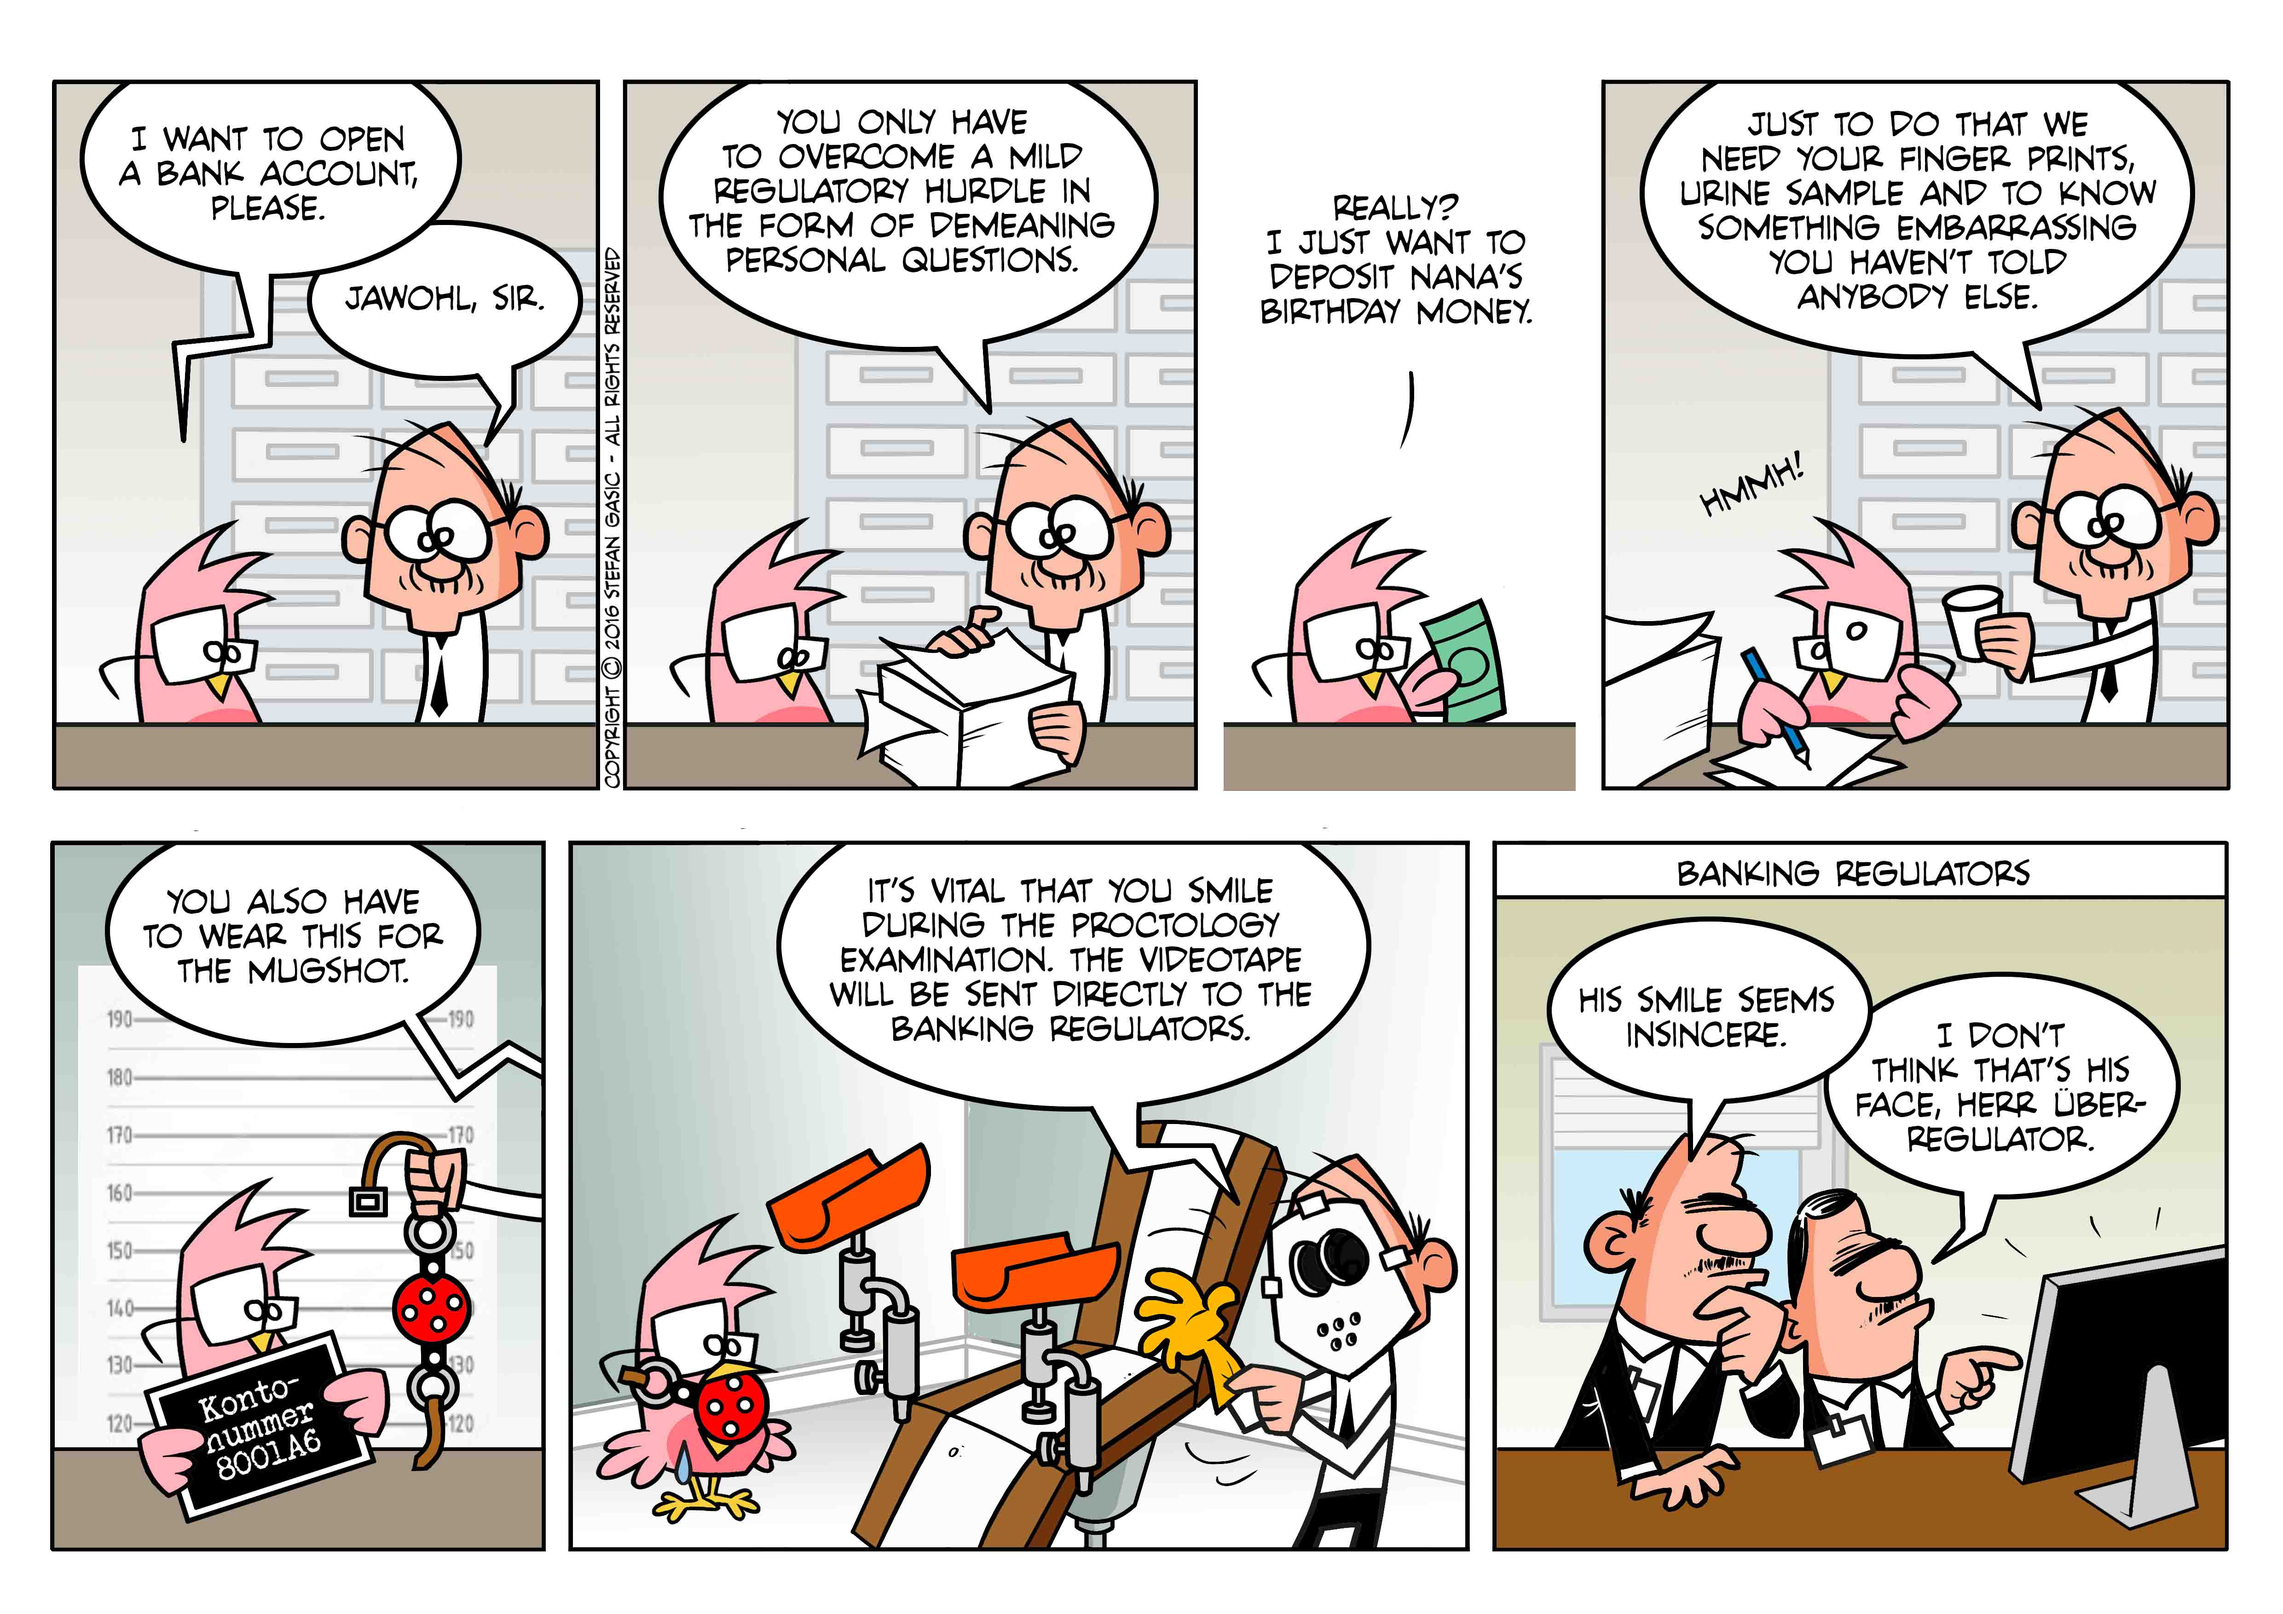
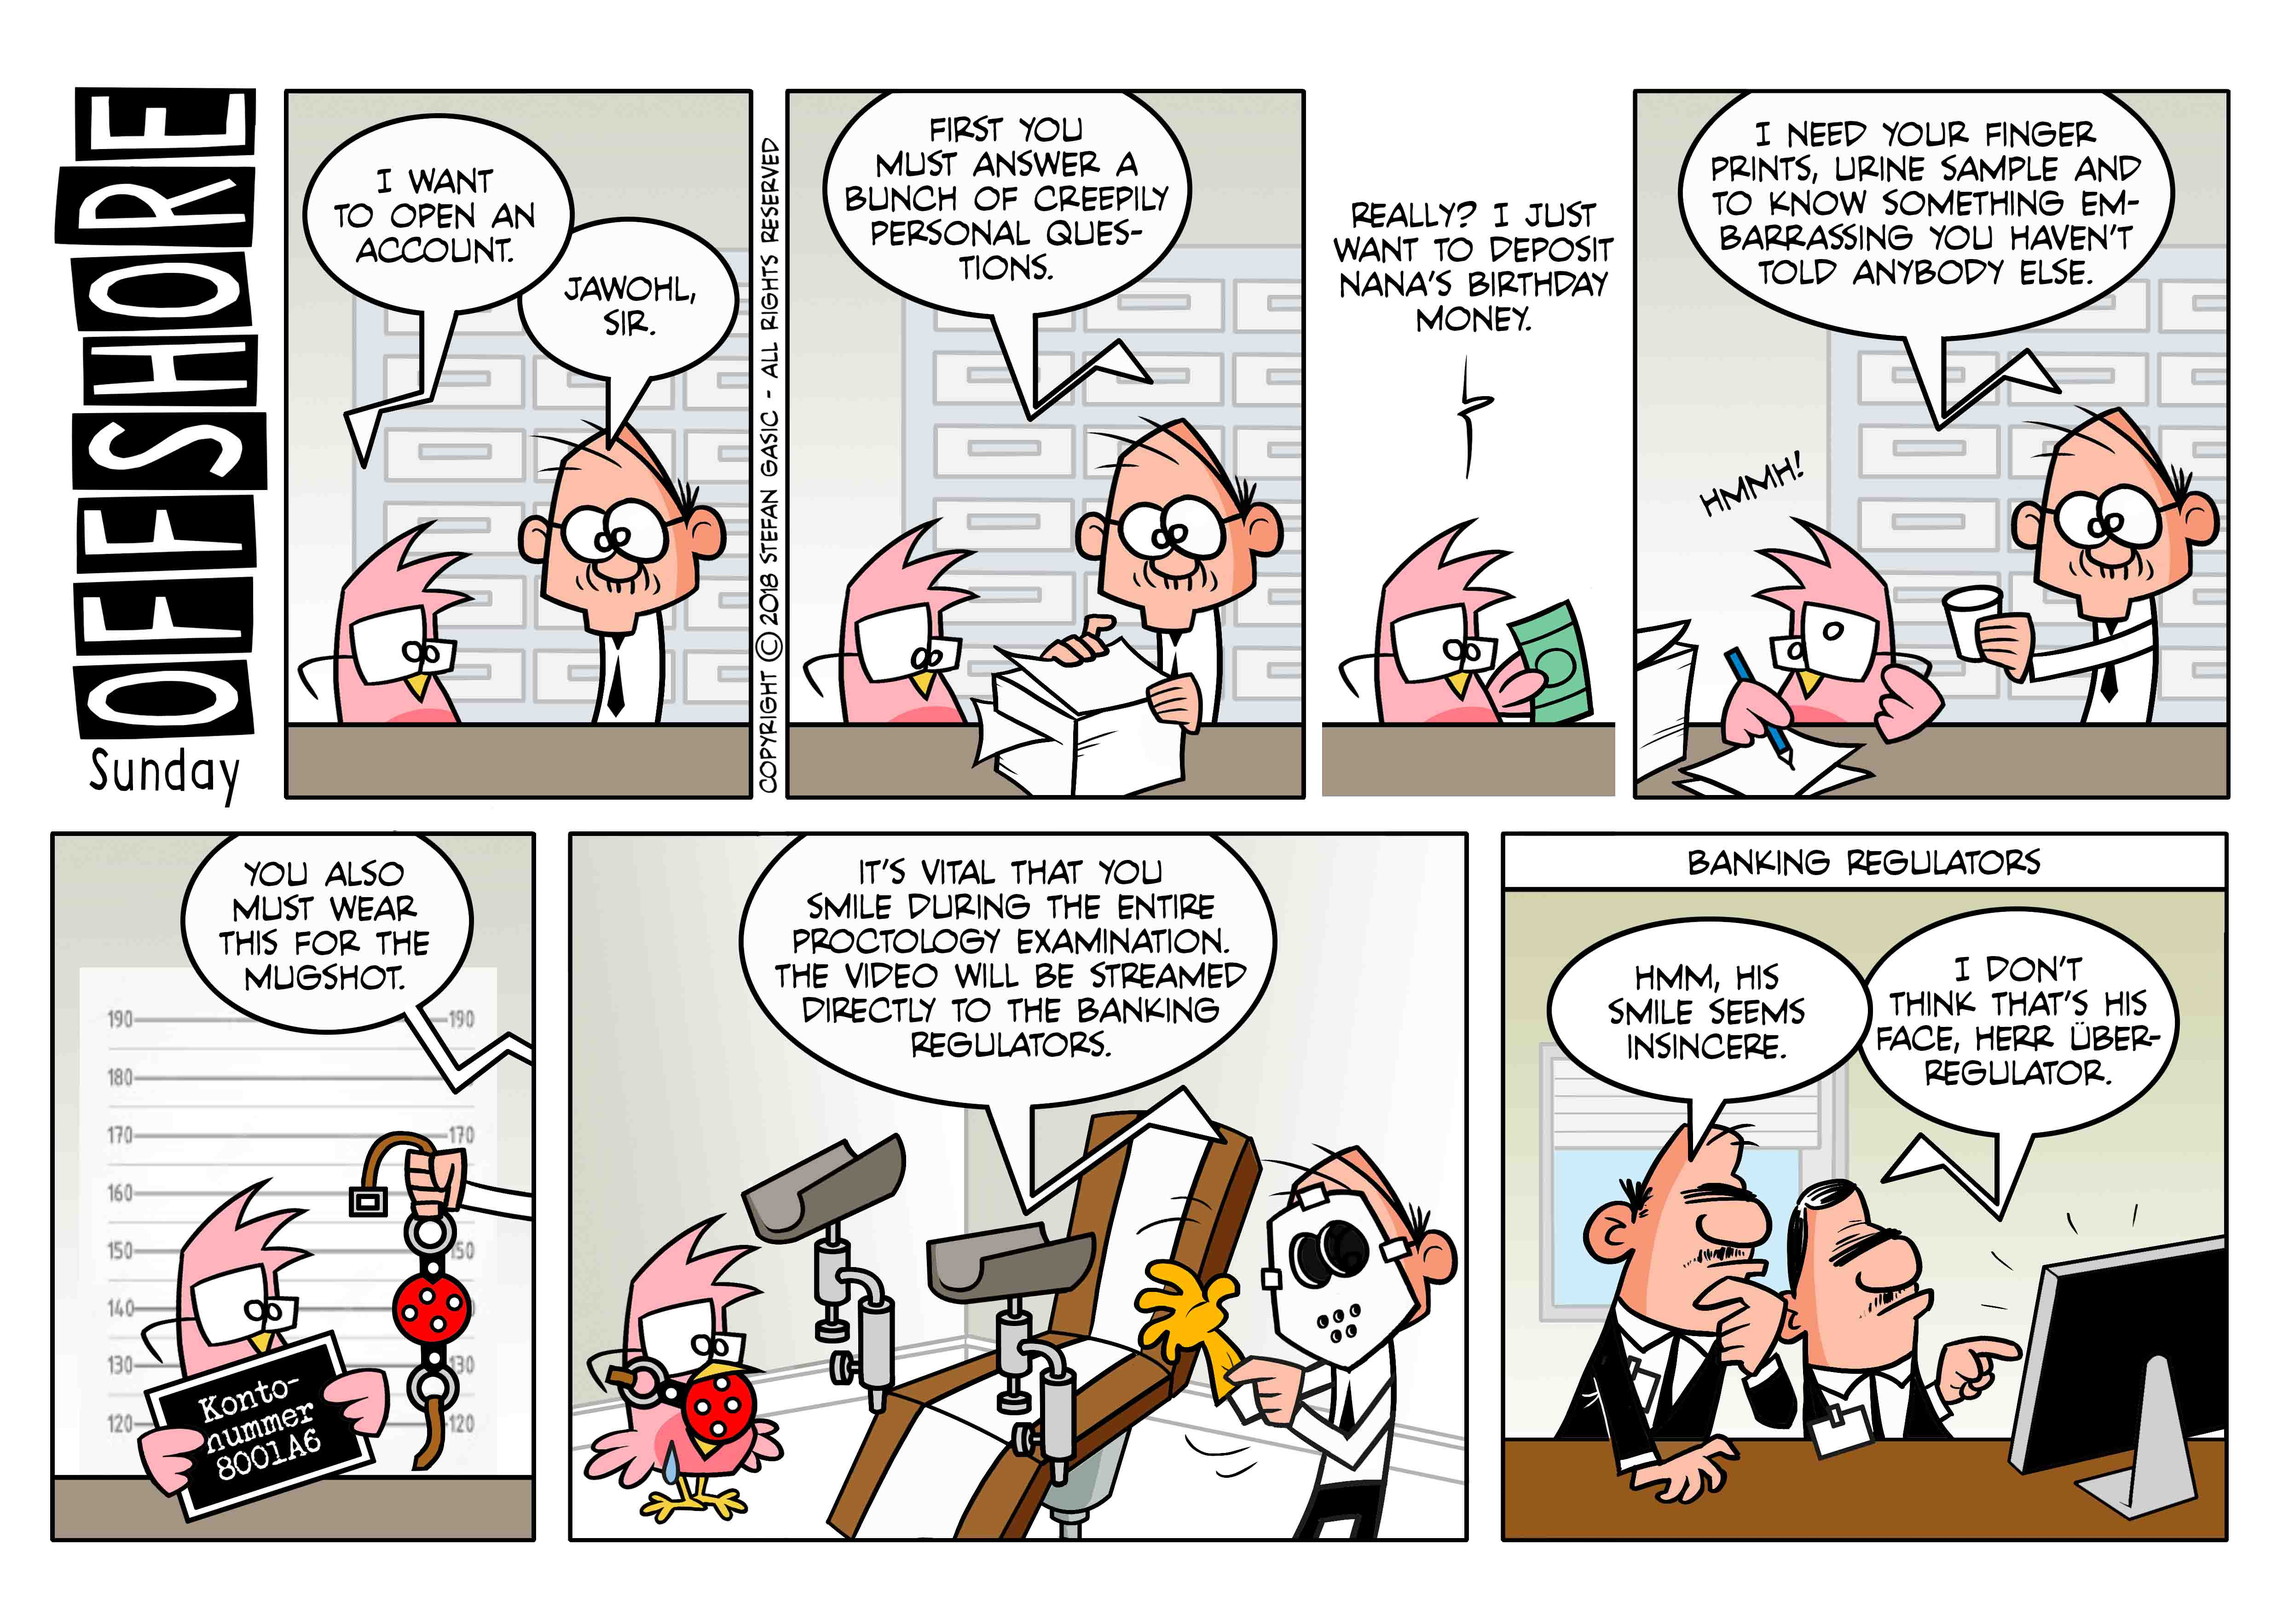
Added a new strip and updated the html & js codes accordingly.

diff --git a/myscripts.js b/myscripts.js
@@ -1,4 +1,4 @@
-var Strips = ["images/S261.jpg","images/S260.jpg","images/S259.jpg","images/S258.jpg","images/S257.jpg","images/S256.jpg","images/S255.jpg","images/S254.jpg","images/S253.jpg","images/S252.jpg","images/S251.jpg","images/S250.jpg","images/S249.jpg","images/S248.jpg","images/S247.jpg","images/S246.jpg","images/S245.jpg","images/S244.jpg","images/S243.jpg","images/S242.jpg","images/S241.jpg","images/S240.jpg","images/S239.jpg","images/S238.jpg","images/S237.jpg","images/S236.jpg","images/S235.jpg","images/S234.jpg","images/S233.jpg","images/S232.jpg","images/S231.jpg","images/S230.jpg","images/S229.jpg","images/S228.jpg","images/S227.jpg","images/S226.jpg","images/S225.jpg","images/S224.jpg","images/S223.jpg","images/S222.jpg","images/S221.jpg","images/S220.jpg","images/S219.jpg","images/S218.jpg","images/S217.jpg","images/S216.jpg","images/S215.jpg","images/S214.jpg","images/S213.jpg","images/S212.jpg","images/S211.jpg","images/S210.jpg","images/S209.jpg","images/S208.jpg","images/S207.jpg","images/S206.jpg","images/S205.jpg","images/S204.jpg","images/S203.jpg","images/S202.jpg","images/S201.jpg","images/S200.jpg","images/S199.jpg","images/S198.jpg","images/S197.jpg","images/S196.jpg","images/S195.jpg","images/S194.jpg","images/S193.jpg","images/S192.jpg","images/S191.jpg","images/S190.jpg","images/S189.jpg","images/S188.jpg","images/S187.jpg","images/S186.jpg","images/S185.jpg","images/S184.jpg","images/S183.jpg","images/S182.jpg","images/S181.jpg","images/S180.jpg","images/S179.jpg","images/S178.jpg","images/S177.jpg","images/S176.jpg","images/S175.jpg","images/S174.jpg","images/S173.jpg","images/S172.jpg","images/S171.jpg","images/S170.jpg","images/S169.jpg","images/S168.jpg","images/S167.jpg","images/S166.jpg","images/S165.jpg","images/S164.jpg","images/S163.jpg","images/S162.jpg","images/S161.jpg","images/S160.jpg","images/S159.jpg","images/S158.jpg","images/S157.jpg","images/S156.jpg","images/S155.jpg","images/S154.jpg","images/S153.jpg","images/S152.jpg","images/S151.jpg","images/S150.jpg","images/S149.jpg","images/S148.jpg","images/S147.jpg","images/S146.jpg","images/S145.jpg","images/S144.jpg","images/S143.jpg","images/S142.jpg","images/S141.jpg","images/S140.jpg","images/S139.jpg","images/S138.jpg","images/S137.jpg","images/S136.jpg","images/S135.jpg","images/S134.jpg","images/S133.jpg","images/S132.jpg","images/S131.jpg","images/S130.jpg","images/S129.jpg","images/S128.jpg","images/S127.jpg","images/S126.jpg","images/S125.jpg","images/S124.jpg","images/S123.jpg","images/S122.jpg","images/S121.jpg","images/S120.jpg","images/S119.jpg","images/S118.jpg","images/S117.jpg","images/S116.jpg","images/S115.jpg","images/S114.jpg","images/S113.jpg","images/S112.jpg","images/S111.jpg","images/S110.jpg","images/S109.jpg","images/S108.jpg","images/S107.jpg","images/S106.jpg","images/S105.jpg","images/S104.jpg","images/S103.jpg","images/S102.jpg","images/S101.jpg","images/S100.jpg","images/S99.jpg","images/S98.jpg","images/S97.jpg","images/S96.jpg","images/S95.jpg","images/S94.jpg","images/S93.jpg","images/S92.jpg","images/S91.jpg","images/S90.jpg","images/S89.jpg","images/S88.jpg","images/S87.jpg","images/S86.jpg","images/S85.jpg","images/S84.jpg","images/S83.jpg","images/S82.jpg","images/S81.jpg","images/S80.jpg","images/S79.jpg","images/S78.jpg","images/S77.jpg","images/S76.jpg","images/S75.jpg","images/S74.jpg","images/S73.jpg","images/S72.jpg","images/S71.jpg","images/S70.jpg","images/S69.jpg","images/S68.jpg","images/S67.jpg","images/S66.jpg","images/S65.jpg","images/S64.jpg","images/S63.jpg","images/S62.jpg","images/S61.jpg","images/S60.jpg","images/S59.jpg","images/S58.jpg","images/S57.jpg","images/S56.jpg","images/S55.jpg","images/S54.jpg","images/S53.jpg","images/S52.jpg","images/S51.jpg","images/S50.jpg","images/S49.jpg","images/S48.jpg","images/S47.jpg","images/S46.jpg","images/S45.jpg","images/S44.jpg","images/S43.jpg","images/S42.jpg","images/S41.jpg","images/S40.jpg","images/S39.jpg","images/S38.jpg","images/S37.jpg","images/S36.jpg","images/S35.jpg","images/S34.jpg","images/S33.jpg","images/S32.jpg","images/S31.jpg","images/S30.jpg","images/S29.jpg","images/S28.jpg","images/S27.jpg","images/S26.jpg","images/S25.jpg","images/S24.jpg","images/S23.jpg","images/S22.jpg","images/S21.jpg","images/S20.jpg","images/S19.jpg","images/S18.jpg","images/S17.jpg","images/S16.jpg","images/S15.jpg","images/S14.jpg","images/S13.jpg","images/S12.jpg","images/S11.jpg","images/S10.jpg","images/S9.jpg","images/S8.jpg","images/S7.jpg","images/S6.jpg","images/S5.jpg","images/S4.jpg","images/S3.jpg","images/S2.jpg","images/S1.jpg"];
+var Strips = ["images/S262.jpg","images/S261.jpg","images/S260.jpg","images/S259.jpg","images/S258.jpg","images/S257.jpg","images/S256.jpg","images/S255.jpg","images/S254.jpg","images/S253.jpg","images/S252.jpg","images/S251.jpg","images/S250.jpg","images/S249.jpg","images/S248.jpg","images/S247.jpg","images/S246.jpg","images/S245.jpg","images/S244.jpg","images/S243.jpg","images/S242.jpg","images/S241.jpg","images/S240.jpg","images/S239.jpg","images/S238.jpg","images/S237.jpg","images/S236.jpg","images/S235.jpg","images/S234.jpg","images/S233.jpg","images/S232.jpg","images/S231.jpg","images/S230.jpg","images/S229.jpg","images/S228.jpg","images/S227.jpg","images/S226.jpg","images/S225.jpg","images/S224.jpg","images/S223.jpg","images/S222.jpg","images/S221.jpg","images/S220.jpg","images/S219.jpg","images/S218.jpg","images/S217.jpg","images/S216.jpg","images/S215.jpg","images/S214.jpg","images/S213.jpg","images/S212.jpg","images/S211.jpg","images/S210.jpg","images/S209.jpg","images/S208.jpg","images/S207.jpg","images/S206.jpg","images/S205.jpg","images/S204.jpg","images/S203.jpg","images/S202.jpg","images/S201.jpg","images/S200.jpg","images/S199.jpg","images/S198.jpg","images/S197.jpg","images/S196.jpg","images/S195.jpg","images/S194.jpg","images/S193.jpg","images/S192.jpg","images/S191.jpg","images/S190.jpg","images/S189.jpg","images/S188.jpg","images/S187.jpg","images/S186.jpg","images/S185.jpg","images/S184.jpg","images/S183.jpg","images/S182.jpg","images/S181.jpg","images/S180.jpg","images/S179.jpg","images/S178.jpg","images/S177.jpg","images/S176.jpg","images/S175.jpg","images/S174.jpg","images/S173.jpg","images/S172.jpg","images/S171.jpg","images/S170.jpg","images/S169.jpg","images/S168.jpg","images/S167.jpg","images/S166.jpg","images/S165.jpg","images/S164.jpg","images/S163.jpg","images/S162.jpg","images/S161.jpg","images/S160.jpg","images/S159.jpg","images/S158.jpg","images/S157.jpg","images/S156.jpg","images/S155.jpg","images/S154.jpg","images/S153.jpg","images/S152.jpg","images/S151.jpg","images/S150.jpg","images/S149.jpg","images/S148.jpg","images/S147.jpg","images/S146.jpg","images/S145.jpg","images/S144.jpg","images/S143.jpg","images/S142.jpg","images/S141.jpg","images/S140.jpg","images/S139.jpg","images/S138.jpg","images/S137.jpg","images/S136.jpg","images/S135.jpg","images/S134.jpg","images/S133.jpg","images/S132.jpg","images/S131.jpg","images/S130.jpg","images/S129.jpg","images/S128.jpg","images/S127.jpg","images/S126.jpg","images/S125.jpg","images/S124.jpg","images/S123.jpg","images/S122.jpg","images/S121.jpg","images/S120.jpg","images/S119.jpg","images/S118.jpg","images/S117.jpg","images/S116.jpg","images/S115.jpg","images/S114.jpg","images/S113.jpg","images/S112.jpg","images/S111.jpg","images/S110.jpg","images/S109.jpg","images/S108.jpg","images/S107.jpg","images/S106.jpg","images/S105.jpg","images/S104.jpg","images/S103.jpg","images/S102.jpg","images/S101.jpg","images/S100.jpg","images/S99.jpg","images/S98.jpg","images/S97.jpg","images/S96.jpg","images/S95.jpg","images/S94.jpg","images/S93.jpg","images/S92.jpg","images/S91.jpg","images/S90.jpg","images/S89.jpg","images/S88.jpg","images/S87.jpg","images/S86.jpg","images/S85.jpg","images/S84.jpg","images/S83.jpg","images/S82.jpg","images/S81.jpg","images/S80.jpg","images/S79.jpg","images/S78.jpg","images/S77.jpg","images/S76.jpg","images/S75.jpg","images/S74.jpg","images/S73.jpg","images/S72.jpg","images/S71.jpg","images/S70.jpg","images/S69.jpg","images/S68.jpg","images/S67.jpg","images/S66.jpg","images/S65.jpg","images/S64.jpg","images/S63.jpg","images/S62.jpg","images/S61.jpg","images/S60.jpg","images/S59.jpg","images/S58.jpg","images/S57.jpg","images/S56.jpg","images/S55.jpg","images/S54.jpg","images/S53.jpg","images/S52.jpg","images/S51.jpg","images/S50.jpg","images/S49.jpg","images/S48.jpg","images/S47.jpg","images/S46.jpg","images/S45.jpg","images/S44.jpg","images/S43.jpg","images/S42.jpg","images/S41.jpg","images/S40.jpg","images/S39.jpg","images/S38.jpg","images/S37.jpg","images/S36.jpg","images/S35.jpg","images/S34.jpg","images/S33.jpg","images/S32.jpg","images/S31.jpg","images/S30.jpg","images/S29.jpg","images/S28.jpg","images/S27.jpg","images/S26.jpg","images/S25.jpg","images/S24.jpg","images/S23.jpg","images/S22.jpg","images/S21.jpg","images/S20.jpg","images/S19.jpg","images/S18.jpg","images/S17.jpg","images/S16.jpg","images/S15.jpg","images/S14.jpg","images/S13.jpg","images/S12.jpg","images/S11.jpg","images/S10.jpg","images/S9.jpg","images/S8.jpg","images/S7.jpg","images/S6.jpg","images/S5.jpg","images/S4.jpg","images/S3.jpg","images/S2.jpg","images/S1.jpg"];
 
 var Current = 0;
 var myStrip = null;

diff --git a/index.html b/index.html
@@ -38,7 +38,7 @@
 		<div class="wrapper6">
 			<div class="wrap-item61"><img src="images/2017_Offshorecomics_web_Today's Offshorecomic.jpg"/></div>
 		</div>
-		<div class="wrap-item1"><img src="images/S261.jpg" id="Strip"/></div>
+		<div class="wrap-item1"><img src="images/S262.jpg" id="Strip"/></div>
 		<div class="wrapper3">
 			<div class="wrap-item3">
 			<button class="button" onClick="Last();">&lsaquo;&lsaquo;</button>
